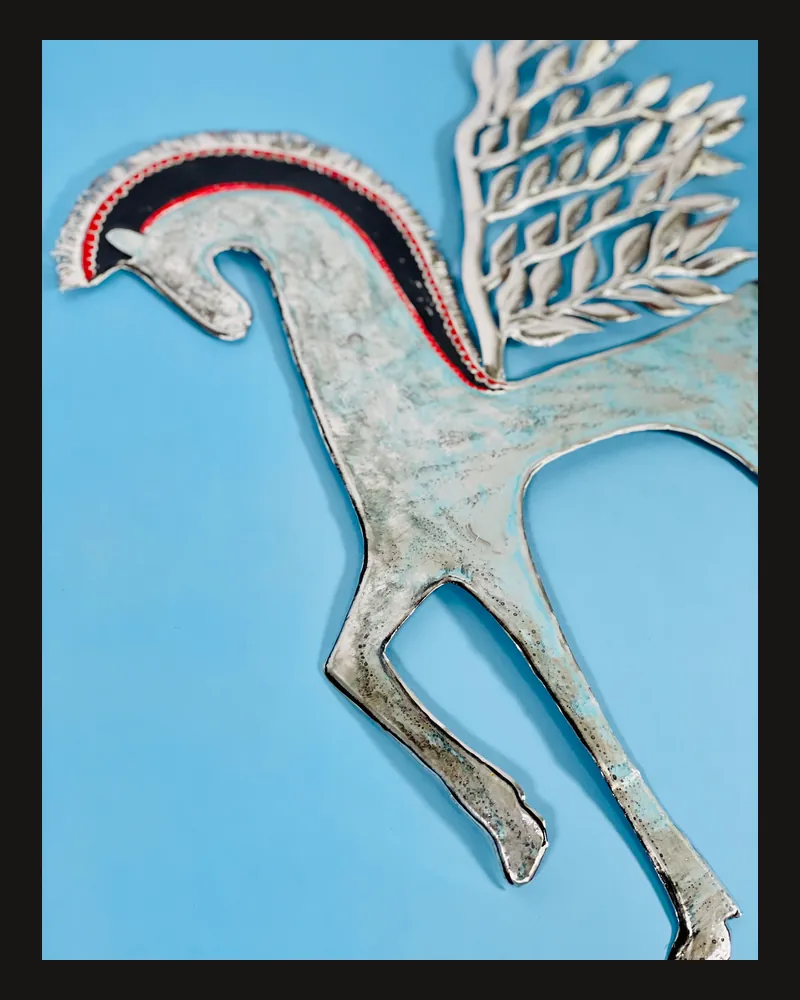
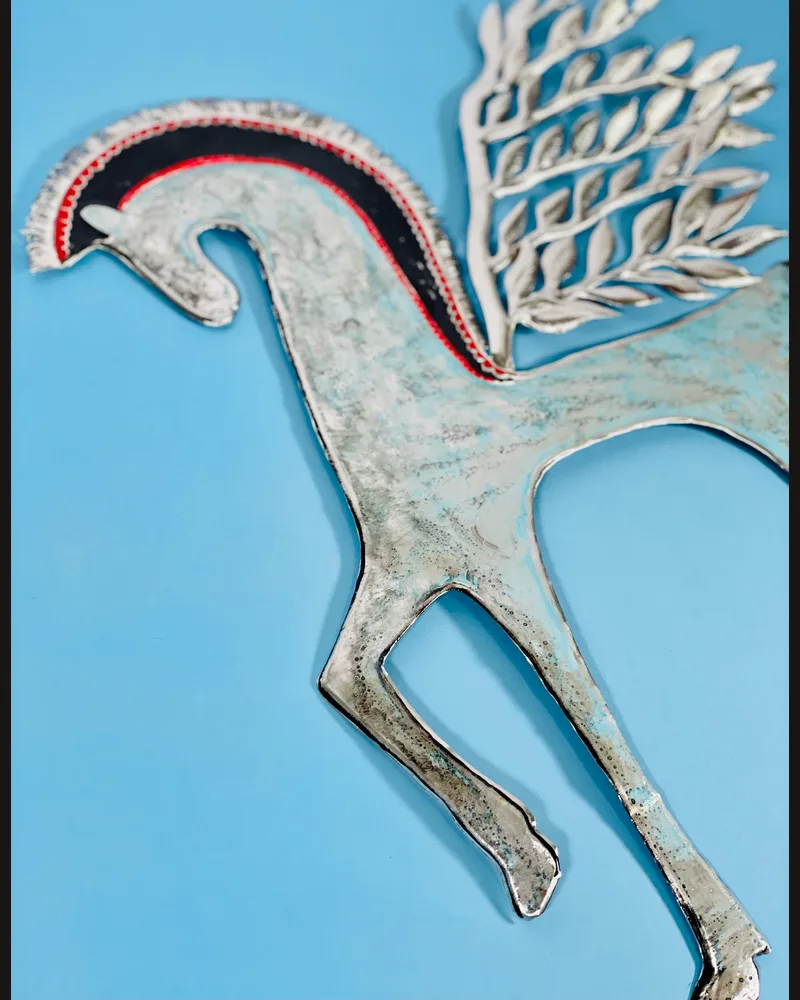
volo-d-argento: 73 MB di PNG -> 1,3 MB, pagina 55 volte piu' leggera
Le foto 02-05 erano PNG da fotocamera non processati: 3024x4032, fino a
20 MB l'uno. Chi apriva la pagina si scaricava 73 MB.

Convertite con la stessa pipeline del pannello (process_image: JPEG 1400px
q85 + thumb e canvas WebP rigenerati), quindi il risultato e' identico a
quello di un caricamento normale e resta coerente con le altre 56 opere.

  02: 19,8 MB -> 0,31 MB      04: 19,2 MB -> 0,30 MB
  03: 14,0 MB -> 0,19 MB      05: 17,1 MB -> 0,24 MB

Qualita' misurata sull'originale recuperato da git: PSNR 35,9 dB, cioe' la
stessa resa del resto del sito (q85). Alzare a q92 avrebbe dato 38,3 dB
per 414 KB invece di 299: guadagno trascurabile a fronte della coerenza,
e comunque il pannello produce q85 se Paola ricarica la foto.

series.json, pagine opera IT/EN e griglia serie riallineate da resync()
partendo dal disco. Gli originali a piena risoluzione restano recuperabili
dalla storia git.

Verificato: nessun riferimento .png rimasto, 5 miniature per pagina,
immagini a 1400px come tutte le altre, e su tutte e 120 le pagine opera
ogni foto citata nel JSON esiste davvero su disco.

diff --git a/opera/volo-d-argento/index.html b/opera/volo-d-argento/index.html
@@ -36,7 +36,7 @@
   <link rel="icon" type="image/svg+xml" href="/favicon.svg">
   <link rel="apple-touch-icon" href="/apple-touch-icon.png">
 
-  <script type="application/ld+json">{"@context": "https://schema.org", "@type": "VisualArtwork", "name": "Volo d'Argento", "description": "Volo d'Argento è una scultura a sbalzo su alluminio che raffigura un cavallo alato, figura mitica che in questa opera assume un tratto essenziale e contemporaneo, ma allo stesso tempo è un richiamo alla figura mitologica, reinterpretata con un tratto pulito, moderno, privo di orpelli.\nI contorni netti e le linee stilizzate danno forma a una creatura sospesa tra forza e leggerezza, tra materia e spirito.\nL’alluminio, trattato completamente a mano, riflette la luce trasformandosi a seconda dell’angolo d’osservazione.\nCon un linguaggio minimalista e senza tempo, questa creazione evoca il superamento dei limiti e la potenza silenziosa dell’immaginazione.\nIl metallo, solitamente freddo e rigido, diventa qui superficie viva, attraversata da forme che parlano di slancio, libertà e desiderio di oltrepassare i limiti.", "creator": {"@type": "Person", "name": "Paola Maccioni"}, "url": "https://paolamaccioni.com/opera/volo-d-argento/", "image": ["https://paolamaccioni.com/struttura-tensione/volo-d-argento/01.jpg", "https://paolamaccioni.com/struttura-tensione/volo-d-argento/02.png", "https://paolamaccioni.com/struttura-tensione/volo-d-argento/03.png", "https://paolamaccioni.com/struttura-tensione/volo-d-argento/04.png", "https://paolamaccioni.com/struttura-tensione/volo-d-argento/05.png"], "artform": "Scultura", "artMedium": "Alluminio lavorato a sbalzo", "artworkSurface": "Lastra di alluminio", "inLanguage": "it-IT"}</script>
+  <script type="application/ld+json">{"@context": "https://schema.org", "@type": "VisualArtwork", "name": "Volo d'Argento", "description": "Volo d'Argento è una scultura a sbalzo su alluminio che raffigura un cavallo alato, figura mitica che in questa opera assume un tratto essenziale e contemporaneo, ma allo stesso tempo è un richiamo alla figura mitologica, reinterpretata con un tratto pulito, moderno, privo di orpelli.\nI contorni netti e le linee stilizzate danno forma a una creatura sospesa tra forza e leggerezza, tra materia e spirito.\nL’alluminio, trattato completamente a mano, riflette la luce trasformandosi a seconda dell’angolo d’osservazione.\nCon un linguaggio minimalista e senza tempo, questa creazione evoca il superamento dei limiti e la potenza silenziosa dell’immaginazione.\nIl metallo, solitamente freddo e rigido, diventa qui superficie viva, attraversata da forme che parlano di slancio, libertà e desiderio di oltrepassare i limiti.", "creator": {"@type": "Person", "name": "Paola Maccioni"}, "url": "https://paolamaccioni.com/opera/volo-d-argento/", "image": ["https://paolamaccioni.com/struttura-tensione/volo-d-argento/01.jpg", "https://paolamaccioni.com/struttura-tensione/volo-d-argento/02.jpg", "https://paolamaccioni.com/struttura-tensione/volo-d-argento/03.jpg", "https://paolamaccioni.com/struttura-tensione/volo-d-argento/04.jpg", "https://paolamaccioni.com/struttura-tensione/volo-d-argento/05.jpg"], "artform": "Scultura", "artMedium": "Alluminio lavorato a sbalzo", "artworkSurface": "Lastra di alluminio", "inLanguage": "it-IT"}</script>
   <link rel="stylesheet" href="/css/main.css">
   <!-- Analytics: caricata da js/consent.js solo dopo il consenso ai cookie (GDPR) -->
 </head>
@@ -81,7 +81,7 @@
       </div>
     </div>
 
-    <div class="opera-thumbs" id="opera-thumbs"><button class="opera-thumb" data-i="0" data-src="/struttura-tensione/volo-d-argento/01.jpg"><img src="/struttura-tensione/volo-d-argento/canvas/01.webp" alt="Volo d&#x27;Argento 1" loading="lazy" decoding="async"></button><button class="opera-thumb" data-i="1" data-src="/struttura-tensione/volo-d-argento/02.png"><img src="/struttura-tensione/volo-d-argento/canvas/02.webp" alt="Volo d&#x27;Argento 2" loading="lazy" decoding="async"></button><button class="opera-thumb" data-i="2" data-src="/struttura-tensione/volo-d-argento/03.png"><img src="/struttura-tensione/volo-d-argento/canvas/03.webp" alt="Volo d&#x27;Argento 3" loading="lazy" decoding="async"></button><button class="opera-thumb" data-i="3" data-src="/struttura-tensione/volo-d-argento/04.png"><img src="/struttura-tensione/volo-d-argento/canvas/04.webp" alt="Volo d&#x27;Argento 4" loading="lazy" decoding="async"></button><button class="opera-thumb" data-i="4" data-src="/struttura-tensione/volo-d-argento/05.png"><img src="/struttura-tensione/volo-d-argento/canvas/05.webp" alt="Volo d&#x27;Argento 5" loading="lazy" decoding="async"></button></div>
+    <div class="opera-thumbs" id="opera-thumbs"><button class="opera-thumb" data-i="0" data-src="/struttura-tensione/volo-d-argento/01.jpg"><img src="/struttura-tensione/volo-d-argento/canvas/01.webp" alt="Volo d&#x27;Argento 1" loading="lazy" decoding="async"></button><button class="opera-thumb" data-i="1" data-src="/struttura-tensione/volo-d-argento/02.jpg"><img src="/struttura-tensione/volo-d-argento/canvas/02.webp" alt="Volo d&#x27;Argento 2" loading="lazy" decoding="async"></button><button class="opera-thumb" data-i="2" data-src="/struttura-tensione/volo-d-argento/03.jpg"><img src="/struttura-tensione/volo-d-argento/canvas/03.webp" alt="Volo d&#x27;Argento 3" loading="lazy" decoding="async"></button><button class="opera-thumb" data-i="3" data-src="/struttura-tensione/volo-d-argento/04.jpg"><img src="/struttura-tensione/volo-d-argento/canvas/04.webp" alt="Volo d&#x27;Argento 4" loading="lazy" decoding="async"></button><button class="opera-thumb" data-i="4" data-src="/struttura-tensione/volo-d-argento/05.jpg"><img src="/struttura-tensione/volo-d-argento/canvas/05.webp" alt="Volo d&#x27;Argento 5" loading="lazy" decoding="async"></button></div>
 
   </div>
 </section>
@@ -92,7 +92,7 @@
 <script src="/js/consent.js"></script>
 <script>
 (() => {
-  const gallery = ["struttura-tensione/volo-d-argento/01.jpg", "struttura-tensione/volo-d-argento/02.png", "struttura-tensione/volo-d-argento/03.png", "struttura-tensione/volo-d-argento/04.png", "struttura-tensione/volo-d-argento/05.png"];
+  const gallery = ["struttura-tensione/volo-d-argento/01.jpg", "struttura-tensione/volo-d-argento/02.jpg", "struttura-tensione/volo-d-argento/03.jpg", "struttura-tensione/volo-d-argento/04.jpg", "struttura-tensione/volo-d-argento/05.jpg"];
   const thumbs = document.querySelectorAll('.opera-thumb');
   const mainImg = document.getElementById('opera-img');
   const counter = document.getElementById('opera-counter');

diff --git a/en/opera/volo-d-argento/index.html b/en/opera/volo-d-argento/index.html
@@ -36,7 +36,7 @@
   <link rel="icon" type="image/svg+xml" href="/favicon.svg">
   <link rel="apple-touch-icon" href="/apple-touch-icon.png">
 
-  <script type="application/ld+json">{"@context": "https://schema.org", "@type": "VisualArtwork", "name": "Volo d'Argento", "description": "Volo d'Argento (Silver Flight) is an embossed sculpture on aluminium depicting a winged horse, a mythical figure that in this work takes on an essential and contemporary trait, but at the same time is a reminder of the mythological figure, reinterpreted with a clean, modern, unadorned stroke.\nThe sharp contours and stylised lines give shape to a creature suspended between strength and lightness, between matter and spirit.\nThe completely hand-treated aluminium reflects light, transforming itself depending on the viewing angle.\nWith a minimalist and timeless language, this creation evokes the overcoming of limits and the silent power of imagination.\nMetal, usually cold and rigid, here becomes a living surface, traversed by shapes that speak of momentum, freedom and the desire to go beyond limits.", "creator": {"@type": "Person", "name": "Paola Maccioni"}, "url": "https://paolamaccioni.com/en/opera/volo-d-argento/", "image": ["https://paolamaccioni.com/struttura-tensione/volo-d-argento/01.jpg", "https://paolamaccioni.com/struttura-tensione/volo-d-argento/02.png", "https://paolamaccioni.com/struttura-tensione/volo-d-argento/03.png", "https://paolamaccioni.com/struttura-tensione/volo-d-argento/04.png", "https://paolamaccioni.com/struttura-tensione/volo-d-argento/05.png"], "artform": "Sculpture", "artMedium": "Hand-chased aluminium", "artworkSurface": "Aluminium sheet", "inLanguage": "en-GB"}</script>
+  <script type="application/ld+json">{"@context": "https://schema.org", "@type": "VisualArtwork", "name": "Volo d'Argento", "description": "Volo d'Argento (Silver Flight) is an embossed sculpture on aluminium depicting a winged horse, a mythical figure that in this work takes on an essential and contemporary trait, but at the same time is a reminder of the mythological figure, reinterpreted with a clean, modern, unadorned stroke.\nThe sharp contours and stylised lines give shape to a creature suspended between strength and lightness, between matter and spirit.\nThe completely hand-treated aluminium reflects light, transforming itself depending on the viewing angle.\nWith a minimalist and timeless language, this creation evokes the overcoming of limits and the silent power of imagination.\nMetal, usually cold and rigid, here becomes a living surface, traversed by shapes that speak of momentum, freedom and the desire to go beyond limits.", "creator": {"@type": "Person", "name": "Paola Maccioni"}, "url": "https://paolamaccioni.com/en/opera/volo-d-argento/", "image": ["https://paolamaccioni.com/struttura-tensione/volo-d-argento/01.jpg", "https://paolamaccioni.com/struttura-tensione/volo-d-argento/02.jpg", "https://paolamaccioni.com/struttura-tensione/volo-d-argento/03.jpg", "https://paolamaccioni.com/struttura-tensione/volo-d-argento/04.jpg", "https://paolamaccioni.com/struttura-tensione/volo-d-argento/05.jpg"], "artform": "Sculpture", "artMedium": "Hand-chased aluminium", "artworkSurface": "Aluminium sheet", "inLanguage": "en-GB"}</script>
   <link rel="stylesheet" href="/css/main.css">
   <!-- Analytics: caricata da js/consent.js solo dopo il consenso ai cookie (GDPR) -->
 </head>
@@ -81,7 +81,7 @@
       </div>
     </div>
 
-    <div class="opera-thumbs" id="opera-thumbs"><button class="opera-thumb" data-i="0" data-src="/struttura-tensione/volo-d-argento/01.jpg"><img src="/struttura-tensione/volo-d-argento/canvas/01.webp" alt="Volo d&#x27;Argento 1" loading="lazy" decoding="async"></button><button class="opera-thumb" data-i="1" data-src="/struttura-tensione/volo-d-argento/02.png"><img src="/struttura-tensione/volo-d-argento/canvas/02.webp" alt="Volo d&#x27;Argento 2" loading="lazy" decoding="async"></button><button class="opera-thumb" data-i="2" data-src="/struttura-tensione/volo-d-argento/03.png"><img src="/struttura-tensione/volo-d-argento/canvas/03.webp" alt="Volo d&#x27;Argento 3" loading="lazy" decoding="async"></button><button class="opera-thumb" data-i="3" data-src="/struttura-tensione/volo-d-argento/04.png"><img src="/struttura-tensione/volo-d-argento/canvas/04.webp" alt="Volo d&#x27;Argento 4" loading="lazy" decoding="async"></button><button class="opera-thumb" data-i="4" data-src="/struttura-tensione/volo-d-argento/05.png"><img src="/struttura-tensione/volo-d-argento/canvas/05.webp" alt="Volo d&#x27;Argento 5" loading="lazy" decoding="async"></button></div>
+    <div class="opera-thumbs" id="opera-thumbs"><button class="opera-thumb" data-i="0" data-src="/struttura-tensione/volo-d-argento/01.jpg"><img src="/struttura-tensione/volo-d-argento/canvas/01.webp" alt="Volo d&#x27;Argento 1" loading="lazy" decoding="async"></button><button class="opera-thumb" data-i="1" data-src="/struttura-tensione/volo-d-argento/02.jpg"><img src="/struttura-tensione/volo-d-argento/canvas/02.webp" alt="Volo d&#x27;Argento 2" loading="lazy" decoding="async"></button><button class="opera-thumb" data-i="2" data-src="/struttura-tensione/volo-d-argento/03.jpg"><img src="/struttura-tensione/volo-d-argento/canvas/03.webp" alt="Volo d&#x27;Argento 3" loading="lazy" decoding="async"></button><button class="opera-thumb" data-i="3" data-src="/struttura-tensione/volo-d-argento/04.jpg"><img src="/struttura-tensione/volo-d-argento/canvas/04.webp" alt="Volo d&#x27;Argento 4" loading="lazy" decoding="async"></button><button class="opera-thumb" data-i="4" data-src="/struttura-tensione/volo-d-argento/05.jpg"><img src="/struttura-tensione/volo-d-argento/canvas/05.webp" alt="Volo d&#x27;Argento 5" loading="lazy" decoding="async"></button></div>
 
   </div>
 </section>
@@ -92,7 +92,7 @@
 <script src="/js/consent.js"></script>
 <script>
 (() => {
-  const gallery = ["struttura-tensione/volo-d-argento/01.jpg", "struttura-tensione/volo-d-argento/02.png", "struttura-tensione/volo-d-argento/03.png", "struttura-tensione/volo-d-argento/04.png", "struttura-tensione/volo-d-argento/05.png"];
+  const gallery = ["struttura-tensione/volo-d-argento/01.jpg", "struttura-tensione/volo-d-argento/02.jpg", "struttura-tensione/volo-d-argento/03.jpg", "struttura-tensione/volo-d-argento/04.jpg", "struttura-tensione/volo-d-argento/05.jpg"];
   const thumbs = document.querySelectorAll('.opera-thumb');
   const mainImg = document.getElementById('opera-img');
   const counter = document.getElementById('opera-counter');
